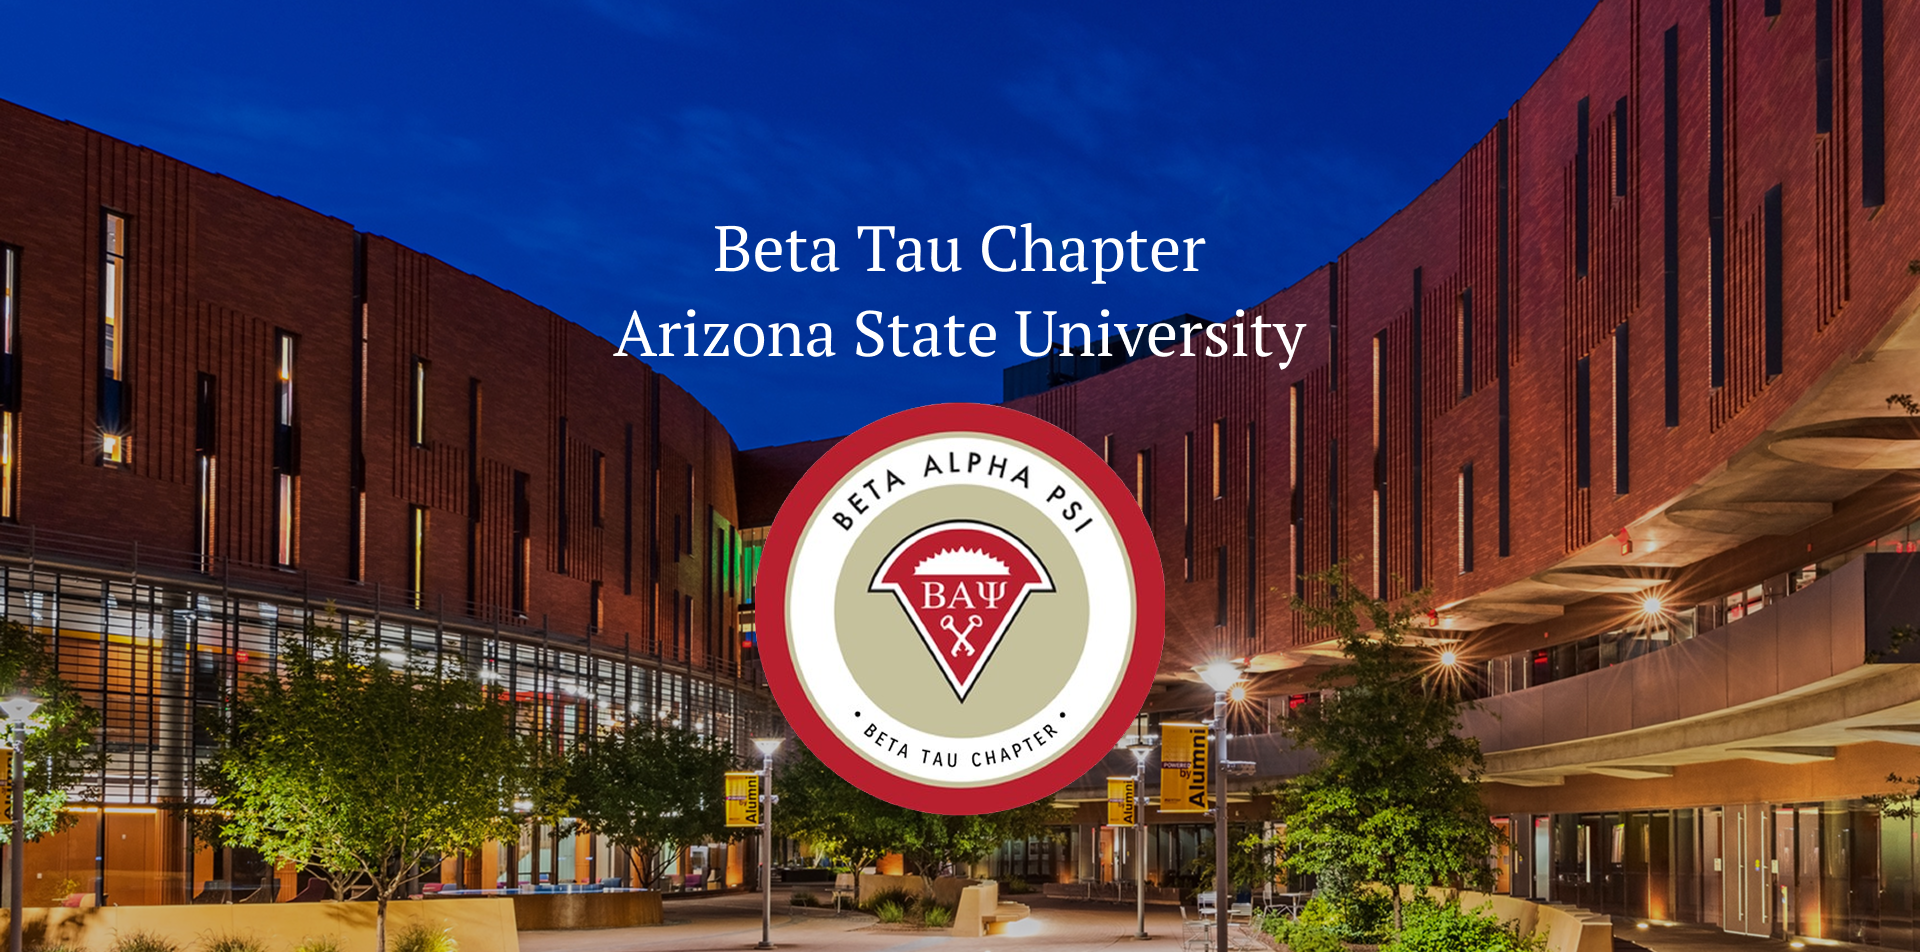
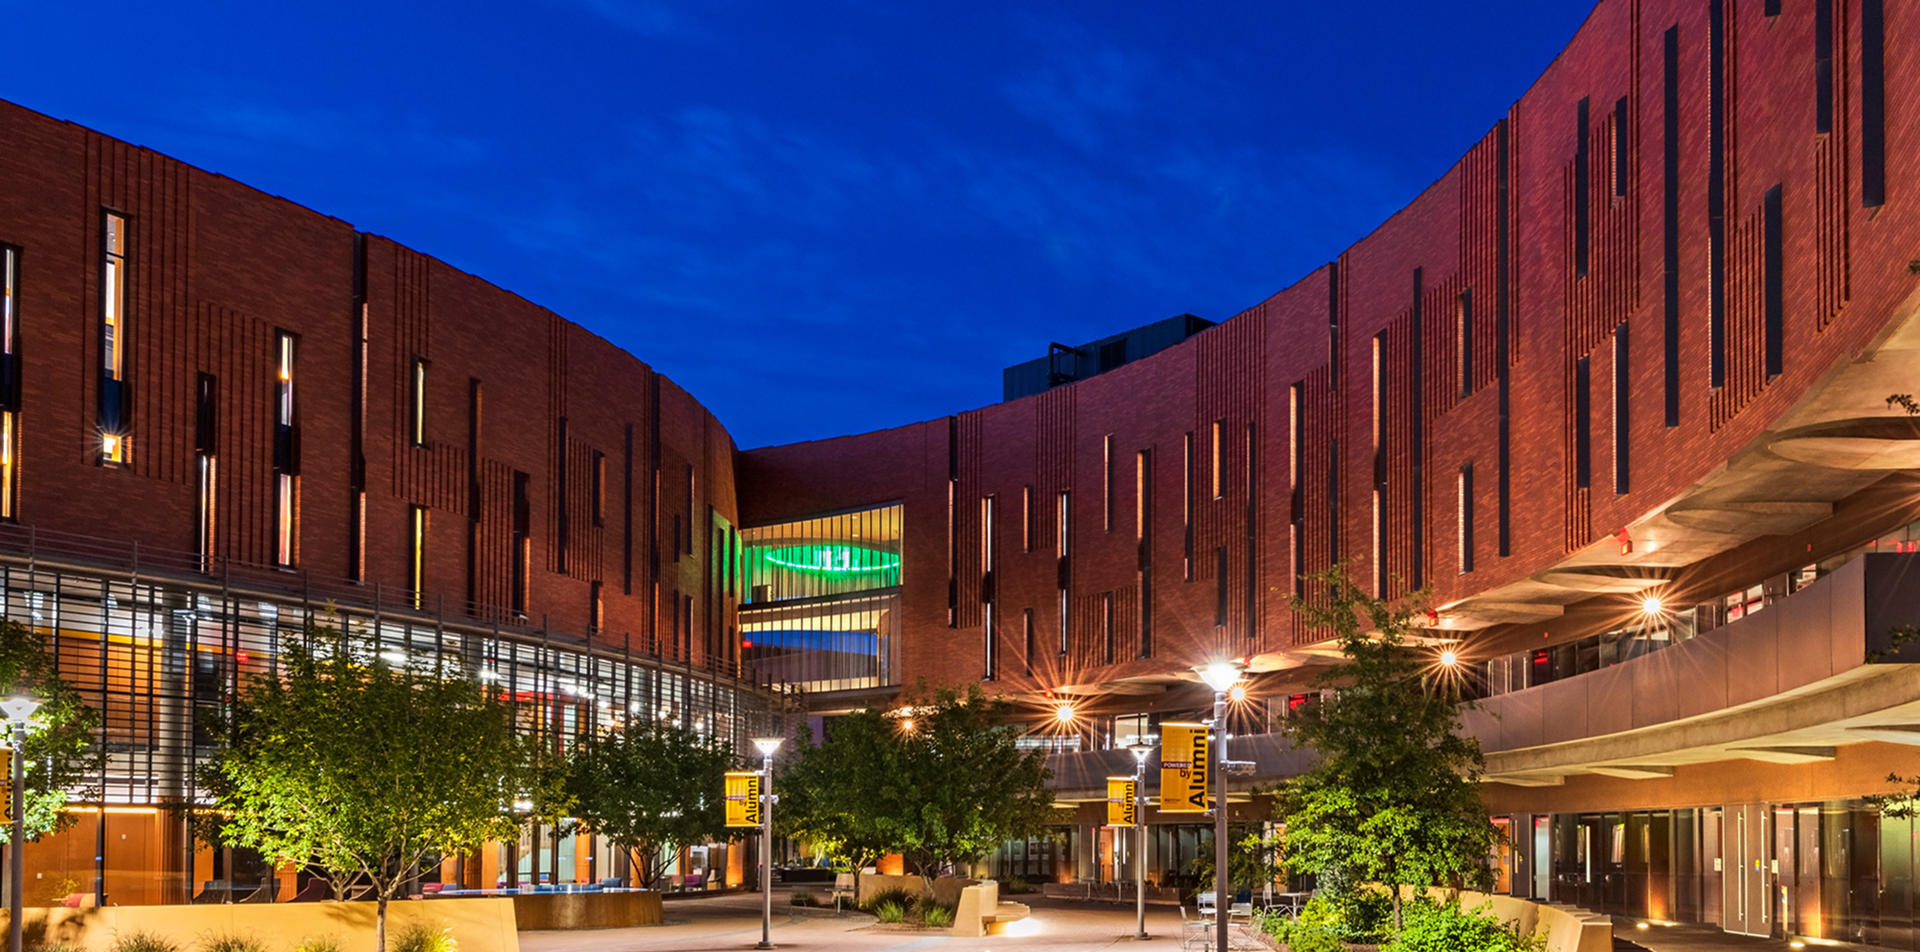
feat: visitor homepage WIP

diff --git a/Frontend/src/components/Hero/WhoWeAre.tsx b/Frontend/src/components/Hero/WhoWeAre.tsx
@@ -1,0 +1,44 @@
+export default function WhoWeAre() {
+  return (
+    <section id="who-we-are" className="py-16 px-4 max-w-7xl mx-auto">
+      <div className="grid md:grid-cols-2 gap-8">
+        {/* Who We Are Content */}
+        <div>
+          <h2 className="text-3xl font-bold text-[#AF272F] mb-6">Who We Are</h2>
+          <p className="text-gray-800 mb-4">
+            Beta Alpha Psi is the premier international honor and service
+            organization for accounting, finance, and information systems
+            students and professionals. The primary objective of Beta Alpha Psi
+            is to encourage and give recognition to scholastic and professional
+            excellence in the business information field. This includes
+            promoting the study and practice of accounting, finance, economics,
+            and information systems; providing opportunities for
+            self-development, service, and association among members and
+            practicing professionals; and encouraging a sense of ethical,
+            social, and public responsibility.
+          </p>
+        </div>
+
+        {/* Testimonial Quote */}
+        <div className="bg-gray-100 p-8 rounded-lg">
+          <blockquote className="relative">
+            <p className="text-gray-800 italic mb-4">
+              "Beta Alpha Psi has been one of the most significant aspects of my
+              college career. As a member of the club, I have had unparalleled
+              opportunities to develop my leadership skills, expand my network,
+              and broaden my understanding of Accounting as a career. What sets
+              the club apart is its commitment to volunteering and mentoring
+              through various service events compared throughout the semester.
+              BAP is not a mere club - it is a community for the next generation
+              of accounting professionals. I sincerely recommend Beta Alpha Psi
+              to anyone who is looking to elevate their professional journey."
+            </p>
+            <footer className="text-right text-gray-600">
+              - BAP Beta Tau Member
+            </footer>
+          </blockquote>
+        </div>
+      </div>
+    </section>
+  );
+}

diff --git a/Frontend/src/components/layout/Footer.tsx b/Frontend/src/components/layout/Footer.tsx
@@ -1,31 +1,31 @@
 interface FooterProps {
-    backgroundColor: string;
-  }
-  
-  const Footer: React.FC<FooterProps> = ({ backgroundColor }) => {
-    return (
-      <footer
-        style={{ backgroundColor }}
-        className="text-white px-4 sm:px-8 md:px-16 py-8"
-      >
-        <div className="flex flex-col sm:flex-row justify-between items-center">
-          <p className="text-center sm:text-left font-['Montserrat'] text-sm sm:text-base mb-4 sm:mb-0">
-            © Copyright {new Date().getFullYear()} Beta Alpha Psi, All Rights
-            Reserved.
-          </p>
-          <div className="flex flex-wrap justify-center sm:justify-end gap-4 sm:gap-8 font-['Montserrat'] text-sm sm:text-base">
-            <a
-              href="https://www.instagram.com/asubap/"
-              target="_blank"
-              rel="noreferrer"
-              className="hover:text-gray-300 hover:underline"
-            >
-              Instagram
-            </a>
-          </div>
+  backgroundColor: string;
+}
+
+const Footer: React.FC<FooterProps> = ({ backgroundColor }) => {
+  return (
+    <footer
+      style={{ backgroundColor }}
+      className="text-white px-4 sm:px-8 md:px-16 py-8"
+    >
+      <div className="flex flex-col sm:flex-row justify-between items-center">
+        <p className="text-center sm:text-left font-['Montserrat'] text-sm sm:text-base mb-4 sm:mb-0">
+          © Copyright {new Date().getFullYear()} Beta Alpha Psi, All Rights
+          Reserved.
+        </p>
+        <div className="flex flex-wrap justify-center sm:justify-end gap-4 sm:gap-8 font-['Montserrat'] text-sm sm:text-base">
+          <a
+            href="https://www.instagram.com/asubap/"
+            target="_blank"
+            rel="noreferrer"
+            className="hover:text-gray-300 hover:underline"
+          >
+            Instagram
+          </a>
         </div>
-      </footer>
-    );
-  };
-  
-  export default Footer;
+      </div>
+    </footer>
+  );
+};
+
+export default Footer;

diff --git a/Frontend/src/components/Hero/Hero.tsx b/Frontend/src/components/Hero/Hero.tsx
@@ -1,0 +1,46 @@
+import { ChevronDown } from "lucide-react";
+import BAPLogo from "../../assets/BAP_Logo.png";
+import BackgroundImage from "../../assets/BAP_Homepage_BG.png";
+
+export default function Hero() {
+  const scrollToNextSection = () => {
+    const whoWeAreSection = document.getElementById("who-we-are");
+    whoWeAreSection?.scrollIntoView({ behavior: "smooth" });
+  };
+
+  return (
+    <div className="relative h-screen w-full overflow-x-hidden">
+      {/* Background Image with Overlay */}
+      <div className="absolute inset-0">
+        <img
+          src={BackgroundImage}
+          alt="ASU Campus"
+          className="w-full h-full object-cover"
+        />
+        <div className="absolute inset-0 bg-[#101010] bg-opacity-70"></div>
+      </div>
+
+      {/* Content */}
+      <div className="relative z-10 h-full flex flex-col items-center justify-center text-white">
+        <h1 className="text-5xl font-bold mb-4">BETA ALPHA PSI</h1>
+        <h2 className="text-3xl mb-2">Beta Tau Chapter</h2>
+        <h3 className="text-2xl mb-8">Arizona State University</h3>
+
+        <img
+          src={BAPLogo}
+          alt="Beta Alpha Psi Logo"
+          className="w-48 h-48 object-contain mt-8"
+        />
+      </div>
+
+      {/* Bouncing Arrow */}
+      <button
+        onClick={scrollToNextSection}
+        className="absolute bottom-8 right-12 animate-bounce cursor-pointer z-20"
+        aria-label="Scroll to next section"
+      >
+        <ChevronDown size={40} className="text-white" />
+      </button>
+    </div>
+  );
+}

diff --git a/Frontend/src/components/ui/ProcessStep.tsx b/Frontend/src/components/ui/ProcessStep.tsx
@@ -1,21 +1,21 @@
 interface ProcessStepProps {
-    title: string;
-    requirements: string[];
-  }
-  
-  export const ProcessStep = ({ title, requirements }: ProcessStepProps) => {
-    return (
-      <div className="flex flex-col items-center">
-        <h2 className="text-[#AF272F] text-[54px] font-bold text-center mb-5">
-          {title}
-        </h2>
-        <div className="text-black text-[28px] max-w-[468px] text-center">
-          {requirements.map((requirement, index) => (
-            <div key={index} className="mb-5 last:mb-0">
-              {requirement}
-            </div>
-          ))}
-        </div>
+  title: string;
+  requirements: string[];
+}
+
+export const ProcessStep = ({ title, requirements }: ProcessStepProps) => {
+  return (
+    <div className="flex flex-col items-center">
+      <h2 className="text-[#AF272F] text-[54px] font-bold text-center mb-5">
+        {title}
+      </h2>
+      <div className="text-black text-[28px] max-w-[468px] text-center">
+        {requirements.map((requirement, index) => (
+          <div key={index} className="mb-5 last:mb-0">
+            {requirement}
+          </div>
+        ))}
       </div>
-    );
-  };
+    </div>
+  );
+};

diff --git a/Frontend/src/pages/homepage/HomePage.tsx b/Frontend/src/pages/homepage/HomePage.tsx
@@ -1,5 +1,9 @@
 import Navbar from "../../components/layout/Navbar";
 import Footer from "../../components/layout/Footer";
+import Hero from "../../components/Hero/Hero";
+import WhoWeAre from "../../components/Hero/WhoWeAre";
+import InstagramEmbed from "../../components/ui/InstagramEmbed";
+import ApplyButton from "../../components/ui/ApplyButton";
 
 export default function Homepage() {
   // Define navigation links to pass to Navbar
@@ -14,7 +18,7 @@ export default function Homepage() {
   return (
     <div className="flex flex-col min-h-screen">
       {/* Add padding-top to account for fixed navbar */}
-      <div className="pt-24">
+      <div>
         <Navbar
           links={navLinks}
           title="Beta Alpha Psi | Beta Tau Chapter"
@@ -22,7 +26,10 @@ export default function Homepage() {
           outlineColor="#AF272F"
         />
         <main className="flex-grow">
-          {/* Your homepage content goes here */}
+          <Hero />
+          <WhoWeAre />
+          <InstagramEmbed />
+          <ApplyButton />
         </main>
         <Footer backgroundColor="#AF272F" />
       </div>

diff --git a/Frontend/src/components/ui/InstagramEmbed.tsx b/Frontend/src/components/ui/InstagramEmbed.tsx
@@ -1,0 +1,17 @@
+export default function InstagramEmbed() {
+  return (
+    <section className="py-16 px-4 bg-gray-50">
+      <div className="max-w-7xl mx-auto">
+        <div className="bg-white p-8 rounded-lg shadow-sm">
+          <h2 className="text-2xl font-bold text-center mb-8">
+            Follow Us on Instagram
+          </h2>
+          <div className="w-full h-[400px] bg-gray-100 flex items-center justify-center">
+            {/* Instagram embed code will go here */}
+            <p className="text-gray-500">Instagram Feed Loading...</p>
+          </div>
+        </div>
+      </div>
+    </section>
+  );
+}

diff --git a/Frontend/src/components/ui/ApplyButton.tsx b/Frontend/src/components/ui/ApplyButton.tsx
@@ -1,0 +1,14 @@
+export default function ApplyButton() {
+  return (
+    <section className="py-16 px-4">
+      <div className="max-w-7xl mx-auto text-center">
+        <a
+          href="/membership"
+          className="inline-block px-8 py-4 text-xl font-semibold text-white bg-[#AF272F] hover:bg-[#8F1F26] transition-colors duration-300 rounded-md shadow-lg"
+        >
+          Click Here To Apply!
+        </a>
+      </div>
+    </section>
+  );
+}
